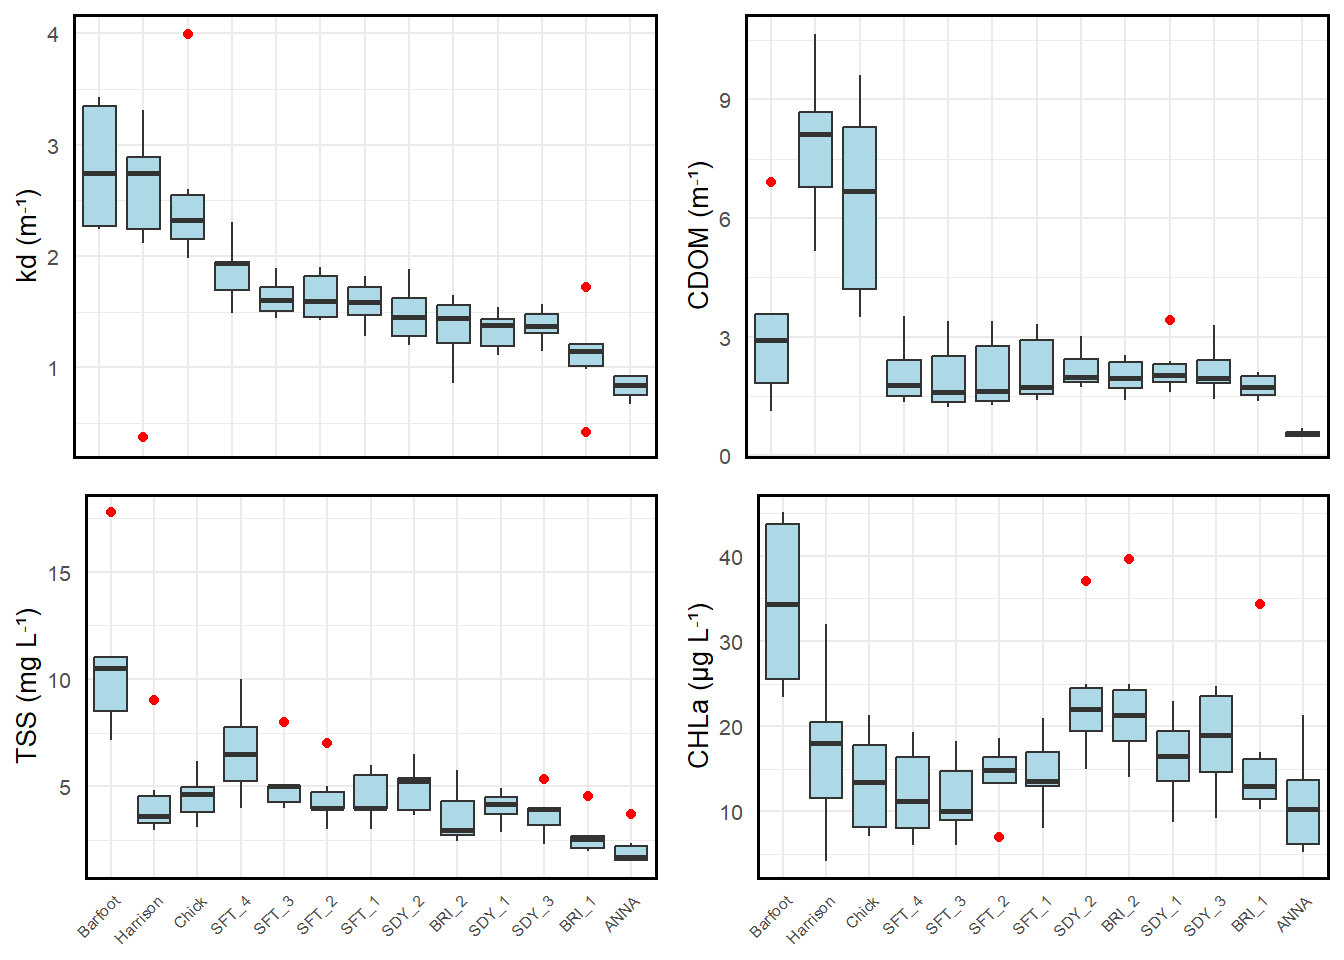
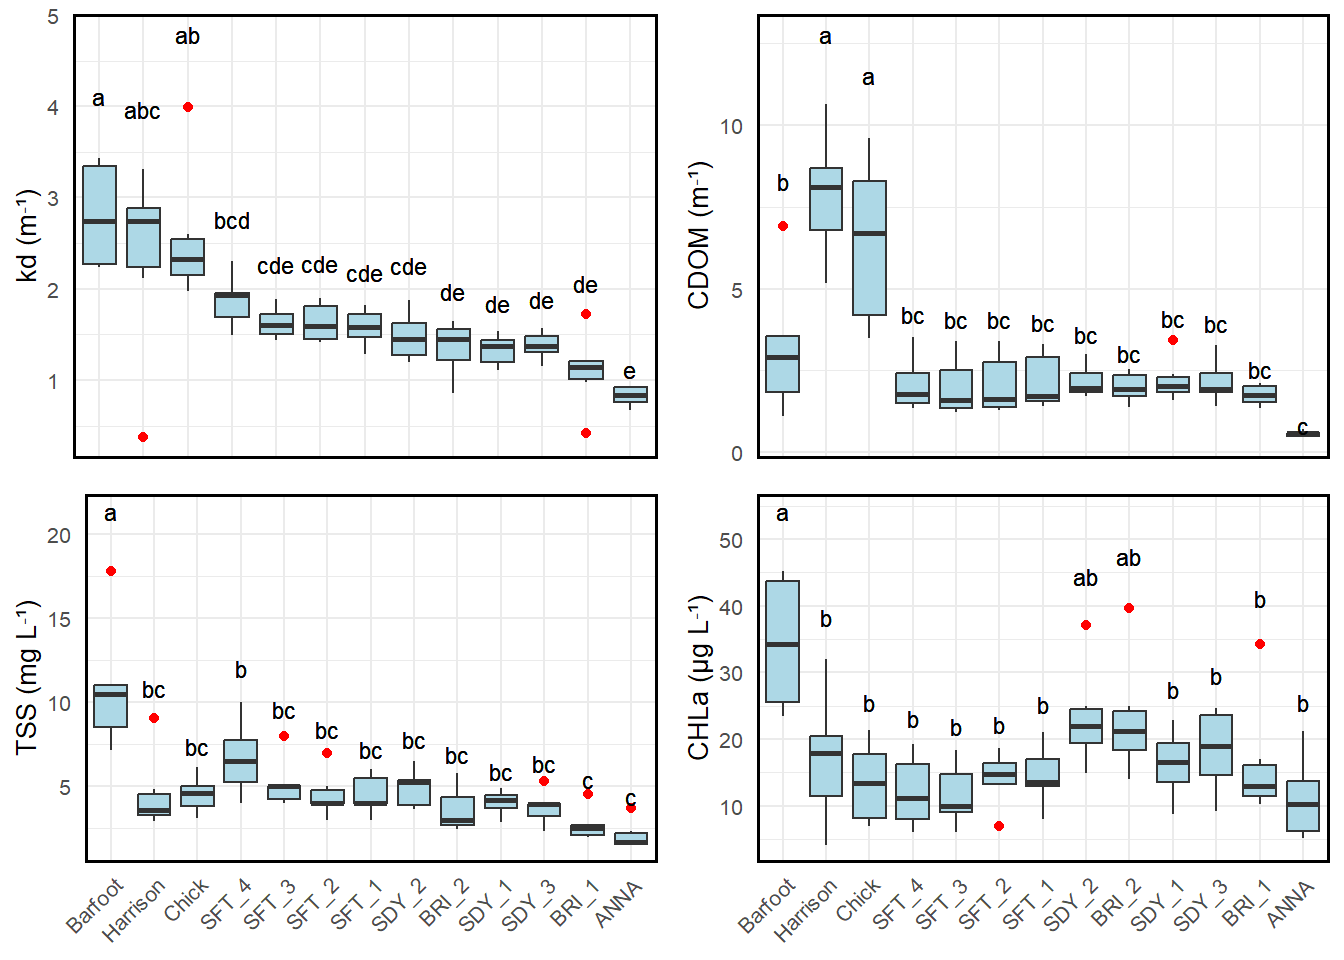
labels

diff --git a/docs/Markdown/CommitteePlots.html b/docs/Markdown/CommitteePlots.html
@@ -99,6 +99,15 @@ ul.task-list li input[type="checkbox"] {
 </div>
 </div>
 <div class="cell">
+<div class="cell-output-display">
+<div>
+<figure class="figure">
+<p><img src="CommitteePlots_files/figure-html/unnamed-chunk-10-1.png" class="img-fluid figure-img" width="672"></p>
+</figure>
+</div>
+</div>
+</div>
+<div class="cell">
 <div class="cell-output cell-output-stdout">
 <pre><code>kd ANOVA</code></pre>
 </div>
@@ -219,15 +228,6 @@ Barfoot   Barfoot     b</code></pre>
 <div class="cell-output-display">
 <div>
 <figure class="figure">
-<p><img src="CommitteePlots_files/figure-html/unnamed-chunk-15-1.png" class="img-fluid figure-img" width="672"></p>
-</figure>
-</div>
-</div>
-</div>
-<div class="cell">
-<div class="cell-output-display">
-<div>
-<figure class="figure">
 <p><img src="CommitteePlots_files/figure-html/unnamed-chunk-16-1.png" class="img-fluid figure-img" width="672"></p>
 </figure>
 </div>
@@ -238,6 +238,15 @@ Barfoot   Barfoot     b</code></pre>
 <div>
 <figure class="figure">
 <p><img src="CommitteePlots_files/figure-html/unnamed-chunk-17-1.png" class="img-fluid figure-img" width="672"></p>
+</figure>
+</div>
+</div>
+</div>
+<div class="cell">
+<div class="cell-output-display">
+<div>
+<figure class="figure">
+<p><img src="CommitteePlots_files/figure-html/unnamed-chunk-18-1.png" class="img-fluid figure-img" width="672"></p>
 </figure>
 </div>
 </div>
@@ -269,7 +278,7 @@ Barfoot   Barfoot     b</code></pre>
 <div class="cell-output-display">
 <div>
 <figure class="figure">
-<p><img src="CommitteePlots_files/figure-html/unnamed-chunk-20-1.png" class="img-fluid figure-img" width="672"></p>
+<p><img src="CommitteePlots_files/figure-html/unnamed-chunk-21-1.png" class="img-fluid figure-img" width="672"></p>
 </figure>
 </div>
 </div>
@@ -278,7 +287,7 @@ Barfoot   Barfoot     b</code></pre>
 <div class="cell-output-display">
 <div>
 <figure class="figure">
-<p><img src="CommitteePlots_files/figure-html/unnamed-chunk-21-1.png" class="img-fluid figure-img" width="672"></p>
+<p><img src="CommitteePlots_files/figure-html/unnamed-chunk-22-1.png" class="img-fluid figure-img" width="672"></p>
 </figure>
 </div>
 </div>
@@ -290,7 +299,7 @@ Barfoot   Barfoot     b</code></pre>
 <div class="cell-output-display">
 <div>
 <figure class="figure">
-<p><img src="CommitteePlots_files/figure-html/unnamed-chunk-22-1.png" class="img-fluid figure-img" width="672"></p>
+<p><img src="CommitteePlots_files/figure-html/unnamed-chunk-23-1.png" class="img-fluid figure-img" width="672"></p>
 </figure>
 </div>
 </div>
@@ -300,7 +309,7 @@ Barfoot   Barfoot     b</code></pre>
 <div class="cell-output-display">
 <div>
 <figure class="figure">
-<p><img src="CommitteePlots_files/figure-html/unnamed-chunk-22-2.png" class="img-fluid figure-img" width="672"></p>
+<p><img src="CommitteePlots_files/figure-html/unnamed-chunk-23-2.png" class="img-fluid figure-img" width="672"></p>
 </figure>
 </div>
 </div>
@@ -310,7 +319,7 @@ Barfoot   Barfoot     b</code></pre>
 <div class="cell-output-display">
 <div>
 <figure class="figure">
-<p><img src="CommitteePlots_files/figure-html/unnamed-chunk-22-3.png" class="img-fluid figure-img" width="672"></p>
+<p><img src="CommitteePlots_files/figure-html/unnamed-chunk-23-3.png" class="img-fluid figure-img" width="672"></p>
 </figure>
 </div>
 </div>
@@ -335,7 +344,7 @@ Barfoot   Barfoot     b</code></pre>
 <div class="cell-output-display">
 <div>
 <figure class="figure">
-<p><img src="CommitteePlots_files/figure-html/unnamed-chunk-24-1.png" class="img-fluid figure-img" width="672"></p>
+<p><img src="CommitteePlots_files/figure-html/unnamed-chunk-25-1.png" class="img-fluid figure-img" width="672"></p>
 </figure>
 </div>
 </div>
@@ -344,15 +353,6 @@ Barfoot   Barfoot     b</code></pre>
 </section>
 <section id="lake-anna" class="level2">
 <h2 class="anchored" data-anchor-id="lake-anna">Lake Anna</h2>
-<div class="cell">
-<div class="cell-output-display">
-<div>
-<figure class="figure">
-<p><img src="CommitteePlots_files/figure-html/unnamed-chunk-27-1.png" class="img-fluid figure-img" width="672"></p>
-</figure>
-</div>
-</div>
-</div>
 <div class="cell">
 <div class="cell-output-display">
 <div>
@@ -390,13 +390,22 @@ Barfoot   Barfoot     b</code></pre>
 </div>
 </div>
 <div class="cell">
+<div class="cell-output-display">
+<div>
+<figure class="figure">
+<p><img src="CommitteePlots_files/figure-html/unnamed-chunk-32-1.png" class="img-fluid figure-img" width="672"></p>
+</figure>
+</div>
+</div>
+</div>
+<div class="cell">
 <div class="cell-output cell-output-stdout">
 <pre><code>[1] "Lake Anna: Photic Zone kd vs TSS"</code></pre>
 </div>
 <div class="cell-output-display">
 <div>
 <figure class="figure">
-<p><img src="CommitteePlots_files/figure-html/unnamed-chunk-32-1.png" class="img-fluid figure-img" width="672"></p>
+<p><img src="CommitteePlots_files/figure-html/unnamed-chunk-33-1.png" class="img-fluid figure-img" width="672"></p>
 </figure>
 </div>
 </div>
@@ -406,7 +415,7 @@ Barfoot   Barfoot     b</code></pre>
 <div class="cell-output-display">
 <div>
 <figure class="figure">
-<p><img src="CommitteePlots_files/figure-html/unnamed-chunk-32-2.png" class="img-fluid figure-img" width="672"></p>
+<p><img src="CommitteePlots_files/figure-html/unnamed-chunk-33-2.png" class="img-fluid figure-img" width="672"></p>
 </figure>
 </div>
 </div>
@@ -416,7 +425,7 @@ Barfoot   Barfoot     b</code></pre>
 <div class="cell-output-display">
 <div>
 <figure class="figure">
-<p><img src="CommitteePlots_files/figure-html/unnamed-chunk-32-3.png" class="img-fluid figure-img" width="672"></p>
+<p><img src="CommitteePlots_files/figure-html/unnamed-chunk-33-3.png" class="img-fluid figure-img" width="672"></p>
 </figure>
 </div>
 </div>
@@ -445,7 +454,7 @@ Barfoot   Barfoot     b</code></pre>
 <div class="cell-output-display">
 <div>
 <figure class="figure">
-<p><img src="CommitteePlots_files/figure-html/unnamed-chunk-34-1.png" class="img-fluid figure-img" width="672"></p>
+<p><img src="CommitteePlots_files/figure-html/unnamed-chunk-35-1.png" class="img-fluid figure-img" width="672"></p>
 </figure>
 </div>
 </div>
@@ -478,7 +487,7 @@ F-statistic: 4.882 on 2 and 21 DF,  p-value: 0.01815</code></pre>
 <div class="cell-output-display">
 <div>
 <figure class="figure">
-<p><img src="CommitteePlots_files/figure-html/unnamed-chunk-35-1.png" class="img-fluid figure-img" width="672"></p>
+<p><img src="CommitteePlots_files/figure-html/unnamed-chunk-36-1.png" class="img-fluid figure-img" width="672"></p>
 </figure>
 </div>
 </div>
@@ -509,7 +518,7 @@ F-statistic: 0.9909 on 2 and 18 DF,  p-value: 0.3906</code></pre>
 <div class="cell-output-display">
 <div>
 <figure class="figure">
-<p><img src="CommitteePlots_files/figure-html/unnamed-chunk-35-2.png" class="img-fluid figure-img" width="672"></p>
+<p><img src="CommitteePlots_files/figure-html/unnamed-chunk-36-2.png" class="img-fluid figure-img" width="672"></p>
 </figure>
 </div>
 </div>
@@ -540,7 +549,7 @@ F-statistic: 7.122 on 2 and 21 DF,  p-value: 0.004355</code></pre>
 <div class="cell-output-display">
 <div>
 <figure class="figure">
-<p><img src="CommitteePlots_files/figure-html/unnamed-chunk-35-3.png" class="img-fluid figure-img" width="672"></p>
+<p><img src="CommitteePlots_files/figure-html/unnamed-chunk-36-3.png" class="img-fluid figure-img" width="672"></p>
 </figure>
 </div>
 </div>
@@ -569,44 +578,7 @@ F-statistic: 7.122 on 2 and 21 DF,  p-value: 0.004355</code></pre>
 <div class="cell-output-display">
 <div>
 <figure class="figure">
-<p><img src="CommitteePlots_files/figure-html/unnamed-chunk-37-1.png" class="img-fluid figure-img" width="672"></p>
-</figure>
-</div>
-</div>
-</div>
-<div class="cell">
-<div class="cell-output-display">
-<div>
-<figure class="figure">
 <p><img src="CommitteePlots_files/figure-html/unnamed-chunk-38-1.png" class="img-fluid figure-img" width="672"></p>
-</figure>
-</div>
-</div>
-<div class="cell-output-display">
-<div>
-<figure class="figure">
-<p><img src="CommitteePlots_files/figure-html/unnamed-chunk-38-2.png" class="img-fluid figure-img" width="672"></p>
-</figure>
-</div>
-</div>
-<div class="cell-output-display">
-<div>
-<figure class="figure">
-<p><img src="CommitteePlots_files/figure-html/unnamed-chunk-38-3.png" class="img-fluid figure-img" width="672"></p>
-</figure>
-</div>
-</div>
-<div class="cell-output-display">
-<div>
-<figure class="figure">
-<p><img src="CommitteePlots_files/figure-html/unnamed-chunk-38-4.png" class="img-fluid figure-img" width="672"></p>
-</figure>
-</div>
-</div>
-<div class="cell-output-display">
-<div>
-<figure class="figure">
-<p><img src="CommitteePlots_files/figure-html/unnamed-chunk-38-5.png" class="img-fluid figure-img" width="672"></p>
 </figure>
 </div>
 </div>
@@ -616,6 +588,43 @@ F-statistic: 7.122 on 2 and 21 DF,  p-value: 0.004355</code></pre>
 <div>
 <figure class="figure">
 <p><img src="CommitteePlots_files/figure-html/unnamed-chunk-39-1.png" class="img-fluid figure-img" width="672"></p>
+</figure>
+</div>
+</div>
+<div class="cell-output-display">
+<div>
+<figure class="figure">
+<p><img src="CommitteePlots_files/figure-html/unnamed-chunk-39-2.png" class="img-fluid figure-img" width="672"></p>
+</figure>
+</div>
+</div>
+<div class="cell-output-display">
+<div>
+<figure class="figure">
+<p><img src="CommitteePlots_files/figure-html/unnamed-chunk-39-3.png" class="img-fluid figure-img" width="672"></p>
+</figure>
+</div>
+</div>
+<div class="cell-output-display">
+<div>
+<figure class="figure">
+<p><img src="CommitteePlots_files/figure-html/unnamed-chunk-39-4.png" class="img-fluid figure-img" width="672"></p>
+</figure>
+</div>
+</div>
+<div class="cell-output-display">
+<div>
+<figure class="figure">
+<p><img src="CommitteePlots_files/figure-html/unnamed-chunk-39-5.png" class="img-fluid figure-img" width="672"></p>
+</figure>
+</div>
+</div>
+</div>
+<div class="cell">
+<div class="cell-output-display">
+<div>
+<figure class="figure">
+<p><img src="CommitteePlots_files/figure-html/unnamed-chunk-40-1.png" class="img-fluid figure-img" width="672"></p>
 </figure>
 </div>
 </div>
@@ -629,7 +638,7 @@ F-statistic: 7.122 on 2 and 21 DF,  p-value: 0.004355</code></pre>
 <div class="cell-output-display">
 <div>
 <figure class="figure">
-<p><img src="CommitteePlots_files/figure-html/unnamed-chunk-42-1.png" class="img-fluid figure-img" width="672"></p>
+<p><img src="CommitteePlots_files/figure-html/unnamed-chunk-43-1.png" class="img-fluid figure-img" width="672"></p>
 </figure>
 </div>
 </div>
@@ -641,16 +650,7 @@ F-statistic: 7.122 on 2 and 21 DF,  p-value: 0.004355</code></pre>
 <div class="cell-output-display">
 <div>
 <figure class="figure">
-<p><img src="CommitteePlots_files/figure-html/unnamed-chunk-44-1.png" class="img-fluid figure-img" width="672"></p>
-</figure>
-</div>
-</div>
-</div>
-<div class="cell">
-<div class="cell-output-display">
-<div>
-<figure class="figure">
-<p><img src="CommitteePlots_files/figure-html/unnamed-chunk-45-1.png" class="img-fluid figure-img" width="672"></p>
+<p><img src="CommitteePlots_files/figure-html/unnamed-chunk-46-1.png" class="img-fluid figure-img" width="672"></p>
 </figure>
 </div>
 </div>
@@ -663,12 +663,31 @@ F-statistic: 7.122 on 2 and 21 DF,  p-value: 0.004355</code></pre>
 </figure>
 </div>
 </div>
+<div class="cell-output cell-output-stdout">
+<pre><code>function (..., newpage = TRUE) 
+{
+    if (newpage) 
+        grid.newpage()
+    g &lt;- arrangeGrob(...)
+    grid.draw(g)
+    invisible(g)
+}
+&lt;bytecode: 0x000001bd0280e120&gt;
+&lt;environment: namespace:gridExtra&gt;</code></pre>
+</div>
+<div class="cell-output-display">
+<div>
+<figure class="figure">
+<p><img src="CommitteePlots_files/figure-html/unnamed-chunk-47-2.png" class="img-fluid figure-img" width="672"></p>
+</figure>
+</div>
+</div>
 </div>
 <div class="cell">
 <div class="cell-output-display">
 <div>
 <figure class="figure">
-<p><img src="CommitteePlots_files/figure-html/unnamed-chunk-48-1.png" class="img-fluid figure-img" width="672"></p>
+<p><img src="CommitteePlots_files/figure-html/unnamed-chunk-49-1.png" class="img-fluid figure-img" width="672"></p>
 </figure>
 </div>
 </div>
@@ -683,15 +702,6 @@ F-statistic: 7.122 on 2 and 21 DF,  p-value: 0.004355</code></pre>
  3rd Qu.: 5.365   3rd Qu.:39.67  
  Max.   :17.810   Max.   :69.50  </code></pre>
 </div>
-<div class="cell-output-display">
-<div>
-<figure class="figure">
-<p><img src="CommitteePlots_files/figure-html/unnamed-chunk-50-1.png" class="img-fluid figure-img" width="672"></p>
-</figure>
-</div>
-</div>
-</div>
-<div class="cell">
 <div class="cell-output-display">
 <div>
 <figure class="figure">
@@ -713,7 +723,16 @@ F-statistic: 7.122 on 2 and 21 DF,  p-value: 0.004355</code></pre>
 <div class="cell-output-display">
 <div>
 <figure class="figure">
-<p><img src="CommitteePlots_files/figure-html/unnamed-chunk-54-1.png" class="img-fluid figure-img" width="672"></p>
+<p><img src="CommitteePlots_files/figure-html/unnamed-chunk-53-1.png" class="img-fluid figure-img" width="672"></p>
+</figure>
+</div>
+</div>
+</div>
+<div class="cell">
+<div class="cell-output-display">
+<div>
+<figure class="figure">
+<p><img src="CommitteePlots_files/figure-html/unnamed-chunk-55-1.png" class="img-fluid figure-img" width="672"></p>
 </figure>
 </div>
 </div>
